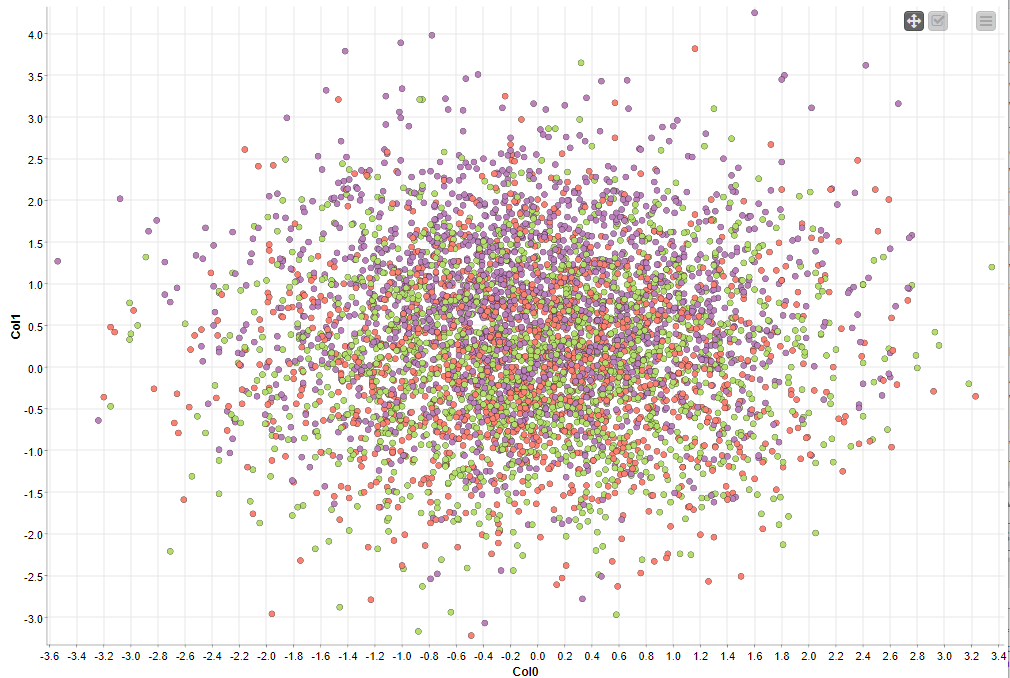
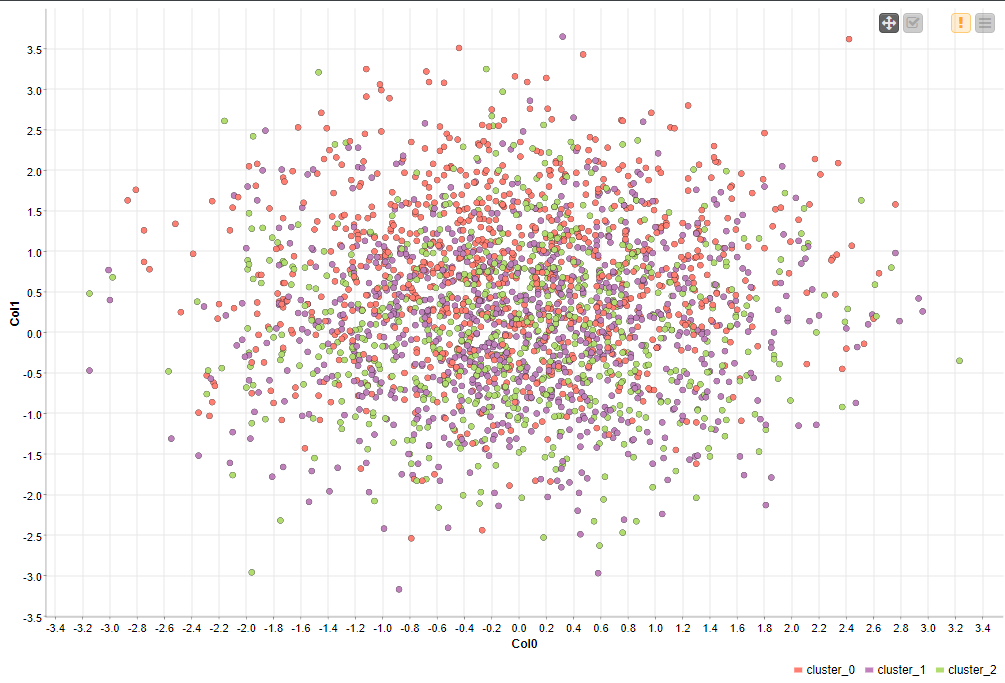
Pushed exo 3

diff --git a/TP3/README.md b/TP3/README.md
@@ -84,3 +84,33 @@ Pour la base de données iris, on a les données initiales suivantes.
 Méthode clustering :
 
 ![EX3_iris_clustering](img/EX3_iris_clustering.png)
+
+---
+
+Valeurs du barycentre :
+
+![EX3_iris_barycenter_value](img/EX3_iris_barycenter_value.png)
+
+---
+
+Représentation du barycentre
+
+![EX3_iris_barycenter_value](img/EX3_iris_barycenter_chart.png)
+
+
+Pour la base de donnée de waveform, on a les données initiales suivantes.
+
+![EX3_iris_init](img/EX3_waveform_init.png)
+---
+Méthode clustering
+![EX3_iris_clustering](img/EX3_waveform_clustering.png)
+---
+
+Valeur du barycentre :
+
+![EX3_iris_barycenter_value](img/EX3_iris_waveform_value.png)
+---
+
+Représentation graphique du barycentre
+
+![EX3_waveform_barycenter_chart.png](img/EX3_waveform_barycenter_chart.png)
